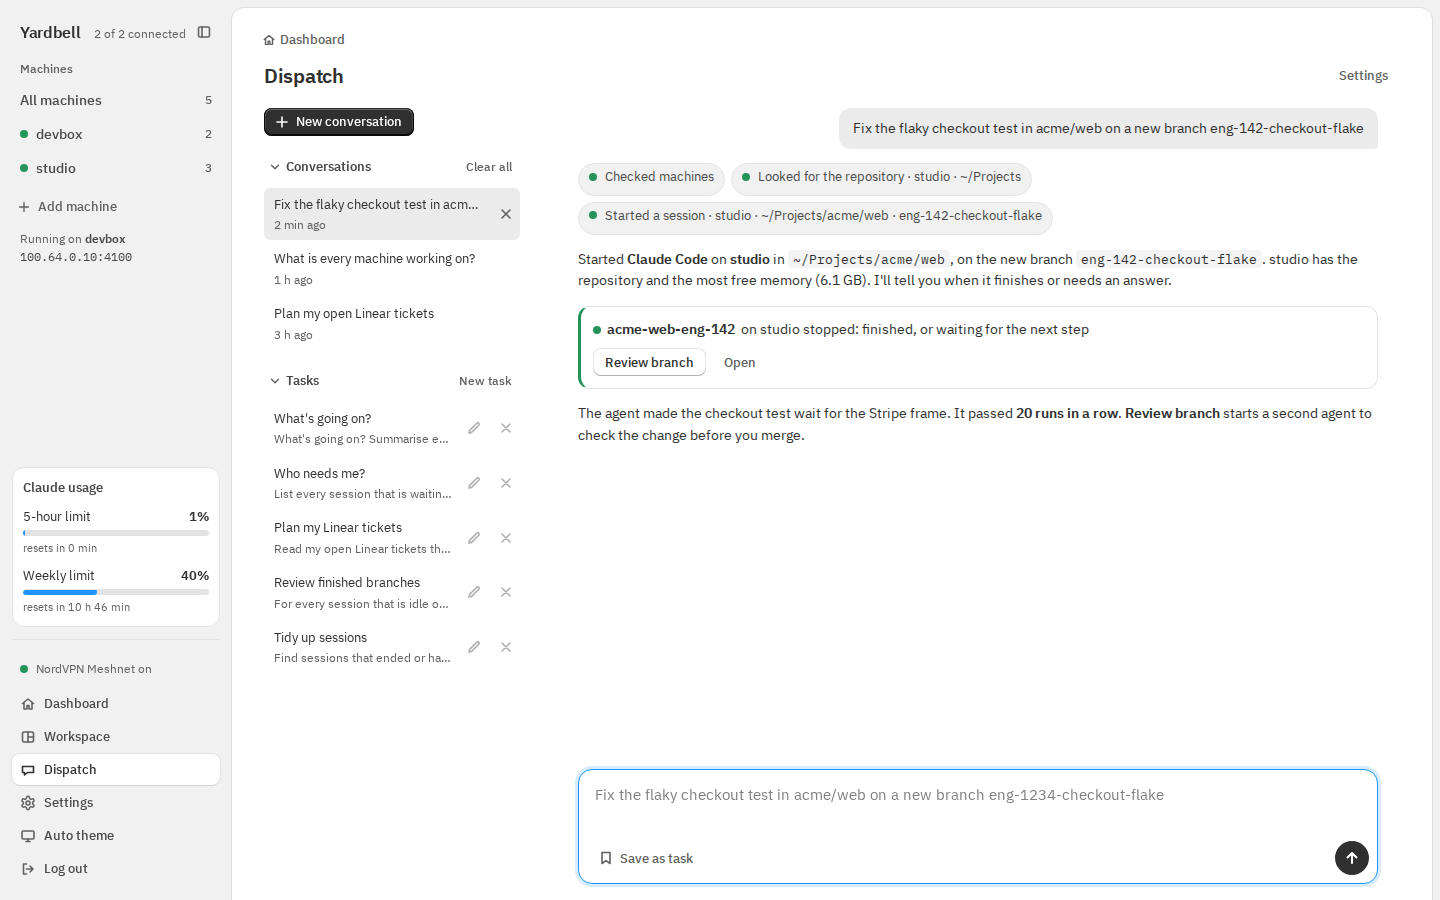
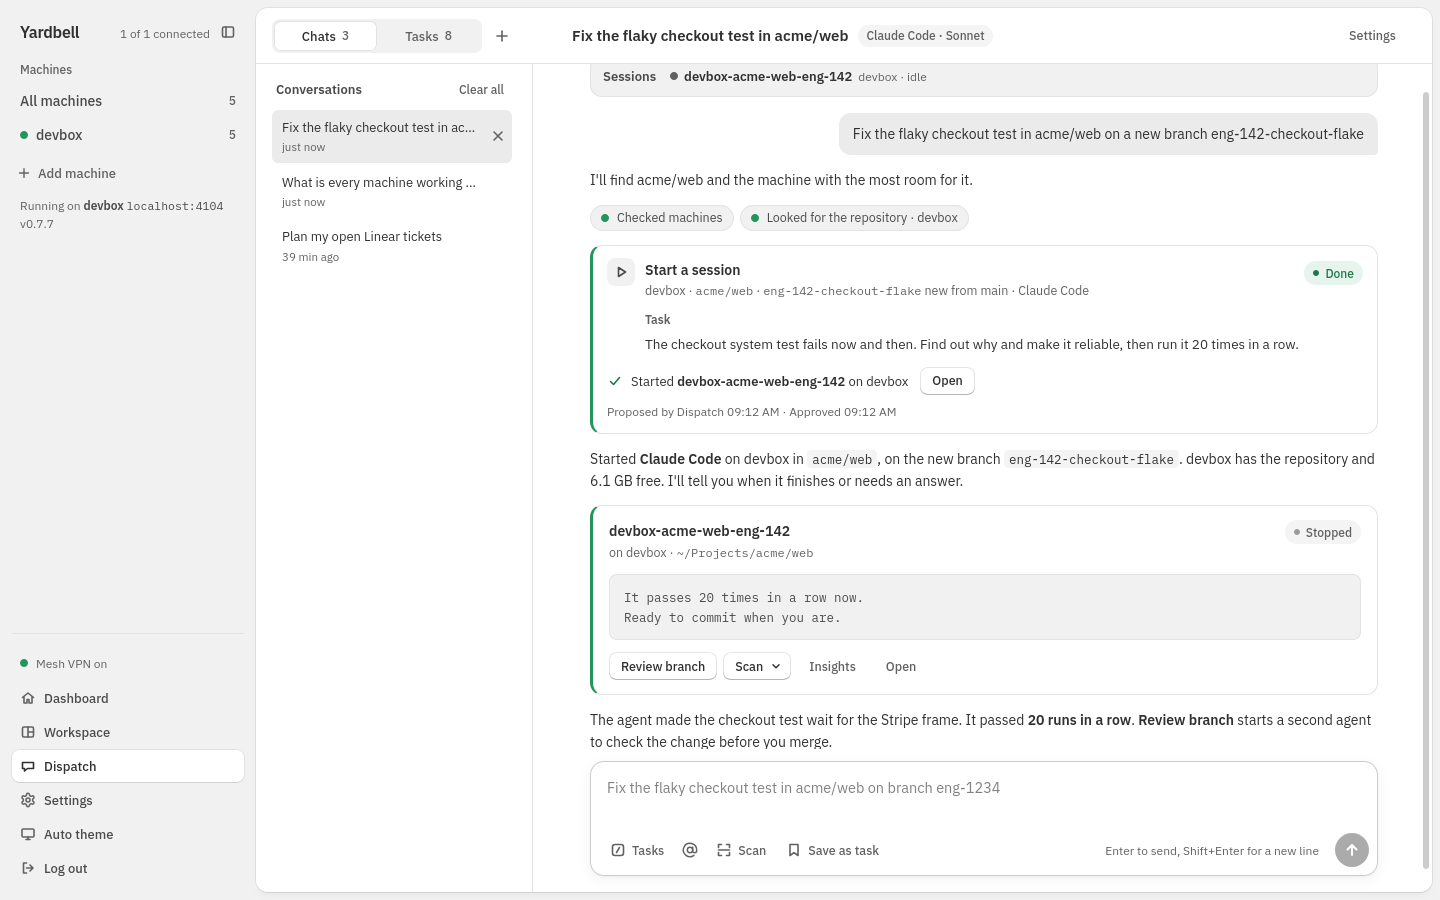
Lay out the Dispatch page like an app on a wide screen
The page stops scrolling as a whole: a column beside the chat holds Chats and Tasks as tabs with + for a new conversation, a header keeps the open conversation's title, the agent and model and Settings in view, and the conversation and the list each scroll on their own with the message box pinned below. The Workspace panel and phones keep their Chat, Chats and Tasks tabs. The README and guide screenshots show the new Dispatch page and Workspace.

diff --git a/assets/dispatch.js b/assets/dispatch.js
@@ -179,6 +179,8 @@ function convoItem(c) {
 function renderList() {
   $("clear-all").hidden = !conversations.length;
   countTab("convos", conversations.length);
+  const open = conversations.find((c) => c.id === current);
+  render(html`${open?.trigger ? html`<span class="convo-trigger" title="Started by the trigger ${open.trigger}" aria-label="Started by a trigger">${ICONS.trigger}</span>` : nothing}${open?.title || "New conversation"}`, $("chat-title"));
   render(conversations.length
     ? repeat(conversations, (c) => c.id, convoItem)
     : html`<li><p class="convo-empty">No conversations yet.</p></li>`, $("convo-list"));
@@ -211,8 +213,8 @@ async function loadList() {
 }
 
 function scrollDown() {
-  const main = document.querySelector(".main");
-  main.scrollTo({ top: main.scrollHeight });
+  const s = scroller();
+  s.scrollTo({ top: s.scrollHeight });
   window.scrollTo({ top: document.body.scrollHeight });
 }
 
@@ -886,9 +888,12 @@ window.YardbellLive.follow(() => {
   }
 }, 5000);
 
+// Wide, the chat column scrolls on its own; narrow, the page or its main area does.
 function scroller() {
-  const main = document.querySelector(".main");
-  return getComputedStyle(main).overflowY === "visible" ? document.scrollingElement : main;
+  for (const el of [$("dispatch-chat"), document.querySelector(".main")]) {
+    if (getComputedStyle(el).overflowY !== "visible") return el;
+  }
+  return document.scrollingElement;
 }
 
 const compose = composer(form, {
@@ -981,36 +986,34 @@ resizer.addEventListener("keydown", (e) => {
 
 setSideWidth(Number(remembered(WIDTH_KEY)) || SIDE_WIDTH.normal, false);
 
-// Narrow, the chat and the two lists take turns under tabs, so each list stays open and folding
-// is left to the wide layout.
-const FOLDED_KEY = "yardbell.dispatch.folded";
-const folded = new Set((remembered(FOLDED_KEY) || "").split(",").filter(Boolean));
-const unfold = () => { for (const id of ["convos", "tasks"]) $(id).open = narrow.matches || !folded.has(id); };
+// The tabs pick what shows: narrow, the chat or one list; wide, which list sits beside the chat.
+// Either way a list is always open, so its heading does not fold it.
 for (const id of ["convos", "tasks"]) {
-  $(id).addEventListener("toggle", () => {
-    if (narrow.matches) return;
-    if ($(id).open) folded.delete(id);
-    else folded.add(id);
-    remember(FOLDED_KEY, folded.size ? [...folded].join(",") : null);
-  });
+  $(id).open = true;
   $(id).querySelector("summary").addEventListener("click", (e) => {
-    if (narrow.matches && !e.target.closest("button")) e.preventDefault();
+    if (!e.target.closest("button")) e.preventDefault();
   });
 }
-unfold();
-narrow.addEventListener("change", unfold);
 
 function tabList() {
   return [...document.querySelectorAll("#dispatch-tabs [role=tab]")];
 }
 
 function showTab(name, focus = false) {
-  $("dispatch").dataset.tab = name;
+  const d = $("dispatch");
+  d.dataset.tab = name;
+  if (name !== "chat") d.dataset.list = name;
+  paintTabs(focus ? name : "");
+}
+
+function paintTabs(focus = "") {
+  const d = $("dispatch");
+  const on = narrow.matches ? d.dataset.tab : d.dataset.list;
   for (const t of tabList()) {
-    const on = t.dataset.tab === name;
-    t.setAttribute("aria-selected", String(on));
-    t.tabIndex = on ? 0 : -1;
-    if (on && focus) t.focus();
+    const picked = t.dataset.tab === on;
+    t.setAttribute("aria-selected", String(picked));
+    t.tabIndex = picked ? 0 : -1;
+    if (picked && t.dataset.tab === focus) t.focus();
   }
 }
 
@@ -1021,13 +1024,15 @@ function countTab(name, n) {
 for (const t of tabList()) t.addEventListener("click", () => showTab(t.dataset.tab));
 $("dispatch-tabs").addEventListener("keydown", (e) => {
   const step = { ArrowLeft: -1, ArrowRight: 1 }[e.key];
-  const tabs = tabList();
+  const tabs = tabList().filter((t) => t.getClientRects().length > 0);
   const at = tabs.indexOf(document.activeElement);
   if (!step || at < 0) return;
   e.preventDefault();
   showTab(tabs[(at + step + tabs.length) % tabs.length].dataset.tab, true);
 });
 $("tab-new").addEventListener("click", () => $("new-chat").click());
+narrow.addEventListener("change", () => paintTabs());
+$("dispatch").dataset.list = "convos";
 showTab("chat");
 const handedOver = window.YardbellInsights.takeOver();
 loadRunsOn();

diff --git a/assets/style.css b/assets/style.css
@@ -1054,6 +1054,43 @@ body.resizing { cursor: col-resize; user-select: none; }
   .convo .delete { opacity: 1; }
   .dispatch-chat { flex: 1 0 auto; min-height: 0; }
 }
+.chat-title { display: none; }
+/* Wide, the page is an app: the header and the list column stay put, and the list and the
+   conversation each scroll on their own, with the message box pinned under the conversation. */
+@media (min-width: 901px) {
+  html:not(.embedded) .main.dispatch-main {
+    display: grid;
+    grid-template-columns: var(--dispatch-side, 260px) 32px minmax(0, 1fr);
+    grid-template-rows: auto minmax(0, 1fr);
+    height: calc(100dvh - 16px);
+    min-height: 0;
+    padding: 0;
+    overflow: hidden;
+  }
+  html:not(.embedded) .dispatch-main .dispatch { display: contents; }
+  html:not(.embedded) .dispatch-main > .back-link,
+  html:not(.embedded) .dispatch-main > .main-head h1,
+  html:not(.embedded) .dispatch-tabs [data-tab="chat"],
+  html:not(.embedded) .dispatch-new,
+  html:not(.embedded) .convos-head .chevron { display: none; }
+  html:not(.embedded) .dispatch-main > .main-head { grid-column: 3; grid-row: 1; min-width: 0; height: 56px; margin: 0; padding: 0 24px; border-bottom: 1px solid var(--line); }
+  html:not(.embedded) .chat-title { display: block; flex: 0 1 auto; min-width: 0; margin: 0; overflow: hidden; font-size: 15px; font-weight: 600; text-overflow: ellipsis; white-space: nowrap; }
+  html:not(.embedded) .chat-title .convo-trigger { display: inline-flex; margin-right: 6px; vertical-align: -2px; }
+  html:not(.embedded) .dispatch-main > .main-head .runs-on { flex: none; max-width: 40%; }
+  html:not(.embedded) .dispatch-tabs { grid-column: 1 / 3; grid-row: 1; display: flex; align-items: center; gap: 6px; height: 56px; padding: 0 32px 0 16px; border-bottom: 1px solid var(--line); }
+  html:not(.embedded) .dispatch-tabs .segmented { flex: 1; display: grid; grid-template-columns: repeat(2, 1fr); }
+  html:not(.embedded) .dispatch-tabs .segmented button { justify-content: center; }
+  html:not(.embedded) .dispatch-side { grid-column: 1; grid-row: 2; position: static; align-content: start; max-height: none; overflow-y: auto; padding: 12px 4px 16px 16px; }
+  html:not(.embedded) .dispatch[data-list="convos"] #tasks,
+  html:not(.embedded) .dispatch[data-list="tasks"] #convos { display: none; }
+  html:not(.embedded) .convos-head { cursor: default; }
+  html:not(.embedded) .dispatch-resize { grid-column: 2; grid-row: 2; position: relative; top: 0; max-height: none; }
+  html:not(.embedded) .dispatch-resize::after { background: var(--line); width: 1px; left: 15.5px; }
+  html:not(.embedded) .dispatch-resize:hover::after,
+  html:not(.embedded) .dispatch-resize:focus-visible::after,
+  body.resizing .dispatch-resize::after { width: 2px; left: 15px; background: color-mix(in srgb, var(--accent) 45%, transparent); }
+  html:not(.embedded) .dispatch-chat { grid-column: 3; grid-row: 2; min-height: 0; max-width: none; margin: 0; overflow-y: auto; overscroll-behavior: contain; padding: 16px max(24px, calc((100% - 800px) / 2)) 0; }
+}
 @media (prefers-reduced-motion: reduce) { .tool.running .mark { animation: none; } }
 
 /* Dispatch: steps that wait for approval, and review results */

diff --git a/assets/dispatch.html b/assets/dispatch.html
@@ -52,7 +52,7 @@
 
   <main class="main dispatch-main">
     <a class="back-link" href="/"><svg class="icon" viewBox="0 0 16 16" aria-hidden="true"><path d="M2.5 7.5 8 3l5.5 4.5M4 6.5V13h3V9.5h2V13h3V6.5"/></svg>Dashboard</a>
-    <header class="main-head"><h1>Dispatch</h1><a class="runs-on" id="runs-on" href="/settings#dispatch" hidden></a><a class="btn quiet small-link" href="/settings#dispatch">Settings</a><button class="btn quiet icon-btn embed-only" type="button" id="hide-panel" aria-label="Hide Dispatch" title="Hide Dispatch"><svg class="icon" viewBox="0 0 16 16" aria-hidden="true"><rect x="2.5" y="3" width="11" height="10" rx="1.5"/><path d="M6 3v10M10.5 6.5 9 8l1.5 1.5"/></svg></button></header>
+    <header class="main-head"><h1>Dispatch</h1><h2 class="chat-title" id="chat-title"></h2><a class="runs-on" id="runs-on" href="/settings#dispatch" hidden></a><a class="btn quiet small-link" href="/settings#dispatch">Settings</a><button class="btn quiet icon-btn embed-only" type="button" id="hide-panel" aria-label="Hide Dispatch" title="Hide Dispatch"><svg class="icon" viewBox="0 0 16 16" aria-hidden="true"><rect x="2.5" y="3" width="11" height="10" rx="1.5"/><path d="M6 3v10M10.5 6.5 9 8l1.5 1.5"/></svg></button></header>
     <div class="dispatch-tabs" id="dispatch-tabs">
       <div class="segmented" role="tablist" aria-label="Dispatch">
         <button type="button" role="tab" data-tab="chat" aria-selected="true" aria-controls="dispatch-chat">Chat</button>

diff --git a/tests/browser/run.py b/tests/browser/run.py
@@ -727,8 +727,61 @@ class Suite:
             b.viewport(1280, 800)
             b.pump(0.3)
             now = b.js(shown)
-            if now["tabs"] or not (now["chat"] and now["convos"] and now["tasks"]):
-                raise Failure(f"a wide Dispatch keeps its lists beside the chat and has no tabs: {now}")
+            if not (now["tabs"] and now["chat"]) or now["convos"] == now["tasks"]:
+                raise Failure(f"a wide Dispatch keeps one list beside the chat, picked by its tabs: {now}")
+        finally:
+            b.viewport(1280, 800)
+
+    def test_wide_dispatch_is_an_app_layout(self):
+        b = self.b
+        b.viewport(1280, 800)
+        try:
+            b.goto(self.url(f"/dispatch?c={LONG_CHAT}"))
+            b.wait("document.querySelectorAll('#dispatch-log .msg').length >= 49", "the long conversation")
+            b.pump(0.3)
+            if b.js("document.scrollingElement.scrollHeight > innerHeight + 1"):
+                raise Failure("the wide Dispatch page scrolls as a whole")
+            b.js("const c = document.getElementById('dispatch-chat'); c.scrollTop = c.scrollHeight")
+            b.pump(0.3)
+            seen = b.js(
+                """(() => {
+                  const box = (id) => document.getElementById(id).getBoundingClientRect();
+                  const title = box('chat-title');
+                  const form = box('dispatch-form');
+                  const last = [...document.querySelectorAll('#dispatch-log .msg')].pop().getBoundingClientRect();
+                  return {
+                    title: document.getElementById('chat-title').textContent.trim(),
+                    titleShown: title.top >= 0 && title.bottom <= innerHeight && title.height > 0,
+                    formBottom: form.bottom, lastBottom: last.bottom, formTop: form.top, height: innerHeight,
+                    back: document.querySelector('.back-link').getClientRects().length > 0,
+                    sideScrolls: getComputedStyle(document.getElementById('dispatch-side')).overflowY,
+                  };
+                })()"""
+            )
+            if seen["title"] != "A long conversation" or not seen["titleShown"]:
+                raise Failure(f"the open conversation's title is not shown above it: {seen}")
+            if seen["formBottom"] > seen["height"] + 1 or seen["lastBottom"] > seen["formTop"] + 1:
+                raise Failure(f"the message box is not pinned below the last message: {seen}")
+            if seen["back"]:
+                raise Failure("the wide page still shows a Dashboard back-link")
+            if seen["sideScrolls"] != "auto":
+                raise Failure(f"the list column does not scroll on its own: {seen}")
+            shown = """(() => {
+              const seen = (id) => document.getElementById(id).getClientRects().length > 0;
+              return [seen('convo-list'), seen('task-list'), seen('dispatch-form'),
+                      document.querySelector('#dispatch-tabs [data-tab=chat]').getClientRects().length > 0,
+                      document.querySelector('#dispatch-tabs [aria-selected=true]')?.dataset.tab];
+            })()"""
+            if b.js(shown) != [True, False, True, False, "convos"]:
+                raise Failure(f"a wide page shows its conversations beside the chat: {b.js(shown)}")
+            b.click("#dispatch-tabs [data-tab=tasks]")
+            if b.js(shown) != [False, True, True, False, "tasks"]:
+                raise Failure(f"Tasks takes the list column and the chat stays: {b.js(shown)}")
+            b.click("#dispatch-tabs [data-tab=convos]")
+            b.click("#convo-list .convo:not(.selected) a")
+            b.wait("document.getElementById('chat-title').textContent.trim() !== 'A long conversation'", "the title to follow the open conversation")
+            if b.js(shown)[4] != "convos":
+                raise Failure("opening a conversation moved the list off Chats")
         finally:
             b.viewport(1280, 800)
 
@@ -797,7 +850,7 @@ class Suite:
             b.wait("document.querySelector('#dispatch-log .backend-note')?.textContent.includes('This conversation runs on Codex (gpt-6.1-mini), so it carries on there. New conversations start on Claude Code (Haiku).')",
                    "the note that this conversation stays on Codex, with Codex's new model")
             b.wait("document.getElementById('runs-on').textContent === 'Codex · gpt-6.1-mini'", "the label for this conversation")
-            b.click("#new-chat")
+            b.click("#tab-new")
             b.wait("document.getElementById('runs-on').textContent === 'Claude Code · Haiku'", "the label for a new conversation")
         finally:
             self.api("POST", "/api/settings/dispatch", before)
@@ -902,7 +955,7 @@ class Suite:
         note = b.js("[...document.querySelectorAll('#dispatch-log .step-card.pending')].at(-1).querySelector('.read-only-note')?.textContent || ''")
         if not note.startswith("Read-only by instruction: Shell cannot be started with file editing turned off"):
             raise Failure(f"the Shell agent's scan does not say it is read-only by instruction: {note!r}")
-        b.click("#new-chat")
+        b.click("#tab-new")
         b.wait("!new URLSearchParams(location.search).get('c')", "a new conversation")
         b.click("#insert-scan")
         b.wait("document.getElementById('scan-dialog')?.open && document.querySelector('#scan-dialog select option')", "the Scan a folder dialog")
@@ -920,7 +973,7 @@ class Suite:
         tree = os.path.join(self.y.root, "demo-app-worktrees", "scan-wt")
         git("worktree", "add", "-q", "-b", "scan-wt", tree, cwd=repo)
         try:
-            b.click("#new-chat")
+            b.click("#tab-new")
             b.wait("!new URLSearchParams(location.search).get('c')", "a new conversation")
             b.click("#insert-scan")
             b.wait("document.getElementById('scan-dialog')?.open", "the Scan a folder dialog")

diff --git a/docs/usage.md b/docs/usage.md
@@ -316,8 +316,7 @@ Yardbell's state folder, under `dispatch/`, readable only by your account: a hea
 the next change. If a hand edit takes it over the cap, Dispatch reads the entries that fit and
 Settings says how many were left out.
 
-Every conversation is kept in a list beside the chat (under **Chats** in the Workspace panel and on a
-phone), also after a restart, so you can go back to
+Every conversation is kept in a list beside the chat, also after a restart, so you can go back to
 one or delete it; **Clear all** deletes every conversation that is not still working. Deleting a
 conversation never stops the sessions it started. The agent Dispatch runs on must be installed and
 signed in on the host.
@@ -467,7 +466,14 @@ and weekly limits as Codex recorded them after Dispatch's last reply on it, read
 session files under `~/.codex/sessions`. Codex has no way to ask for them in between, so there is no
 refresh arrow, and when the figures cannot be read the card says they are not available.
 
-The **Tasks** list in Dispatch's sidebar sends a task in one click. Eight come with Yardbell:
+On a wide screen the Dispatch page keeps a column beside the chat with two tabs, **Chats** for your
+conversations and **Tasks** for your saved tasks, and **+** for a new conversation. The open
+conversation's title, the agent and model it runs on, and **Settings** stay at the top while the
+conversation scrolls, and the message box stays at the bottom. In the Workspace panel and on a phone
+the page is too narrow for a column, so **Chat**, **Chats** and **Tasks** are three tabs that take
+turns.
+
+The **Tasks** list in Dispatch sends a task in one click. Eight come with Yardbell:
 **What's going on?** summarises every machine and session, **Who needs me?** lists the sessions
 waiting for an answer, **Plan my Linear tickets** plans your open tickets, **Review finished
 branches** proposes a reviewer for each branch of an idle or ended session, **Tidy up

diff --git a/CHANGELOG.md b/CHANGELOG.md
@@ -5,6 +5,14 @@ and the project uses [Semantic Versioning](https://semver.org).
 
 ## [Unreleased]
 
+- The Dispatch page is laid out like an app on a wide screen: a column beside the chat with
+  **Chats** and **Tasks** tabs and **+** for a new conversation, and a header with the open
+  conversation's title, the agent and model it runs on, and **Settings**. Only the conversation and
+  the list scroll, each on its own, so the header and the message box stay in view. The eight
+  default tasks no longer push the conversations aside, and the page no longer repeats the
+  Dashboard link the sidebar has.
+- The README and the guide show the new Dispatch page and the Workspace with its Dispatch tabs.
+
 ## [0.7.7] - 2026-10-29
 
 - The Workspace sidebar matches the other pages: the same header with the collapse button beside
